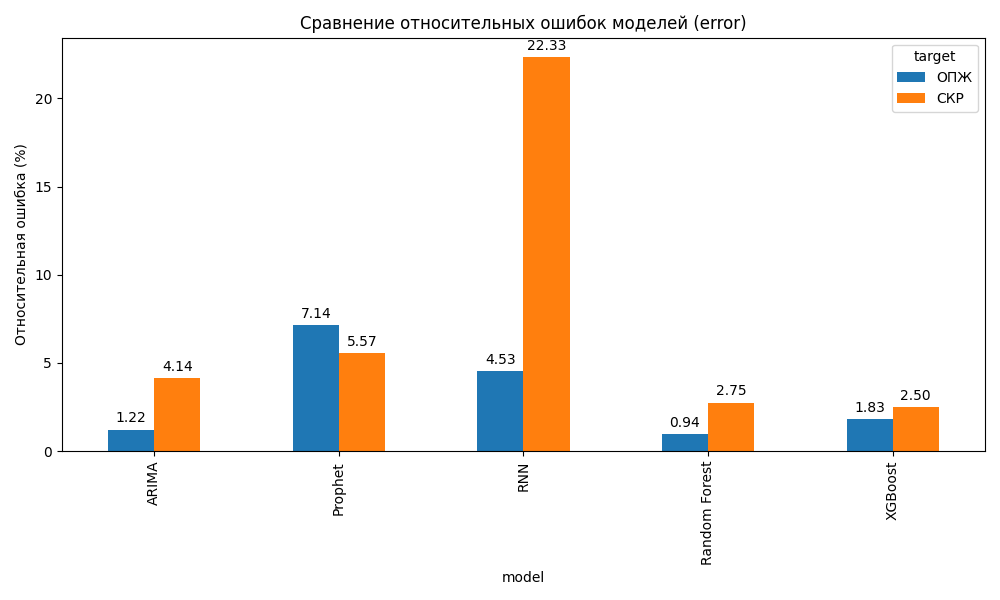
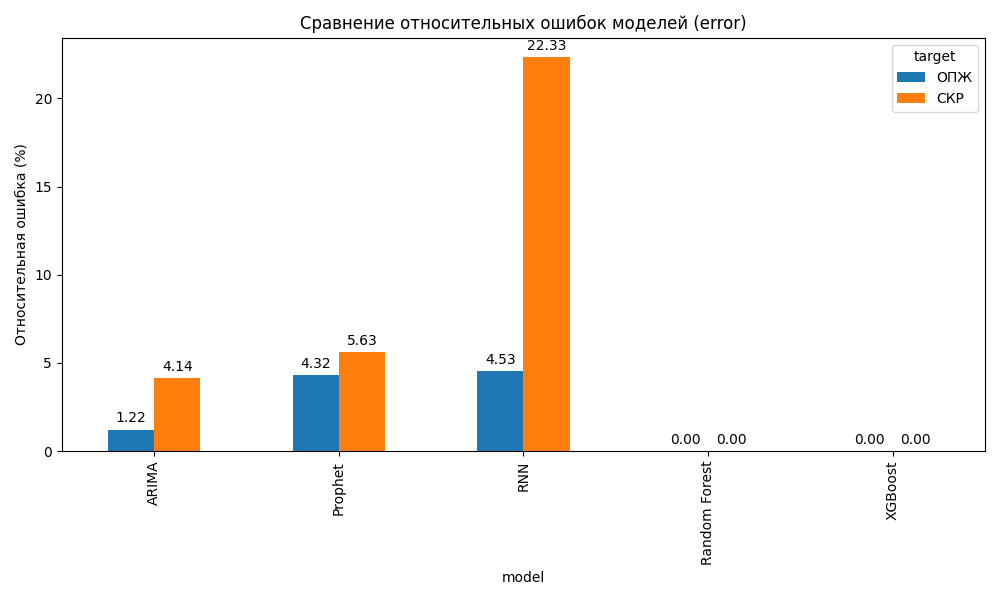
Auto update metrics [ci skip]

Changed region(s): [[0.837, 0.63, 0.961, 0.75], [0.651, 0.63, 0.775, 0.75], [0.279, 0.51, 0.372, 0.63]]

diff --git a/notebooks/Readme.md b/notebooks/Readme.md
@@ -43,80 +43,96 @@ R²: -0.1932
 ```
 ====================================================================================================
 Отклонение таргета относительно прогноза:
-RMSE: 0.0804
-MAE: 0.0626
-R²: 0.9166
-Средний СКР: 1.4430
-Относительная ошибка: 5.57%
+RMSE: 0.0813
+MAE: 0.0636
+R²: 0.9158
+Средний СКР: 1.4432
+Относительная ошибка: 5.63%
 ====================================================================================================
 Отклонение таргета относительно СРЕДНЕГО:
-RMSE: 0.3299
-MAE: 0.2663
-R²: -0.4045
-Средний СКР: 1.4430
-Относительная ошибка: 22.86%
+RMSE: 0.3312
+MAE: 0.2672
+R²: -0.3989
+Средний СКР: 1.4432
+Относительная ошибка: 22.95%
 ====================================================================================================
-{"RMSE": 0.08039634474917264, "MAE": 0.06261784104002265, "R2": 0.9165793307910134, "relative_error": 5.57158582473221, "relative_average": 22.86120035365979}
+{"RMSE": 0.0812716464167795, "MAE": 0.06364434410253696, "R2": 0.915751869343397, "relative_error": 5.631526746965954, "relative_average": 22.947746449726324}
 ```
 
 ## Модель: Prophet — ОПЖ
 ```
 ====================================================================================================
 Отклонение таргета относительно прогноза:
-RMSE: 5.1509
-MAE: 4.8807
-R²: -3.2340
-Средний ОПЖ: 72.1126
-Относительная ошибка: 7.14%
+RMSE: 3.1182
+MAE: 1.9576
+R²: -0.5340
+Средний ОПЖ: 72.1096
+Относительная ошибка: 4.32%
 ====================================================================================================
 Отклонение таргета относительно СРЕДНЕГО:
-RMSE: 2.6350
-MAE: 1.9764
-R²: -0.1080
-Средний ОПЖ: 72.1126
-Относительная ошибка: 3.65%
+RMSE: 2.6477
+MAE: 1.9871
+R²: -0.1060
+Средний ОПЖ: 72.1096
+Относительная ошибка: 3.67%
 ====================================================================================================
-{"RMSE": 5.150934069517236, "MAE": 4.880674739778387, "R2": -3.233954240499953, "relative_error": 7.142899726473126, "relative_average": 3.6540144304911046}
+{"RMSE": 3.1182167851107914, "MAE": 1.9576427501147977, "R2": -0.5340055812229811, "relative_error": 4.32427156973766, "relative_average": 3.6717662954718566}
 ```
 
 ## Модель: Random Forest — СКР
 ```
-====================================================================================================
-Отклонение таргета относительно прогноза:
-RMSE: 0.0395
-MAE: 0.0300
-R²: 0.9794
-Средний СКР: 1.4365
-Относительная ошибка: 2.75%
-====================================================================================================
-Отклонение таргета относительно СРЕДНЕГО:
-RMSE: 0.3311
-MAE: 0.2689
-R²: -0.4436
-Средний СКР: 1.4365
-Относительная ошибка: 23.05%
-====================================================================================================
-{"RMSE": 0.03950175426298135, "MAE": 0.030049199048753493, "R2": 0.9794495132388341, "relative_error": 2.749917372934819, "relative_average": 23.04800988295015}
+Traceback (most recent call last):
+  File "/var/lib/jenkins/workspace/Check accuracy/venv/lib/python3.12/site-packages/pandas/core/indexes/base.py", line 3812, in get_loc
+    return self._engine.get_loc(casted_key)
+           ^^^^^^^^^^^^^^^^^^^^^^^^^^^^^^^^
+  File "pandas/_libs/index.pyx", line 167, in pandas._libs.index.IndexEngine.get_loc
+  File "pandas/_libs/index.pyx", line 196, in pandas._libs.index.IndexEngine.get_loc
+  File "pandas/_libs/hashtable_class_helper.pxi", line 7088, in pandas._libs.hashtable.PyObjectHashTable.get_item
+  File "pandas/_libs/hashtable_class_helper.pxi", line 7096, in pandas._libs.hashtable.PyObjectHashTable.get_item
+KeyError: 'СКР'
+
+The above exception was the direct cause of the following exception:
+
+Traceback (most recent call last):
+  File "/var/lib/jenkins/workspace/Check accuracy/check_metrics.py", line 147, in <module>
+    main()
+  File "/var/lib/jenkins/workspace/Check accuracy/check_metrics.py", line 93, in main
+    mask = ~np.isnan(df[args.target]) & ~np.isnan(df['predictions'])
+                     ~~^^^^^^^^^^^^^
+  File "/var/lib/jenkins/workspace/Check accuracy/venv/lib/python3.12/site-packages/pandas/core/frame.py", line 4113, in __getitem__
+    indexer = self.columns.get_loc(key)
+              ^^^^^^^^^^^^^^^^^^^^^^^^^
+  File "/var/lib/jenkins/workspace/Check accuracy/venv/lib/python3.12/site-packages/pandas/core/indexes/base.py", line 3819, in get_loc
+    raise KeyError(key) from err
+KeyError: 'СКР'
 ```
 
 ## Модель: Random Forest — ОПЖ
 ```
-====================================================================================================
-Отклонение таргета относительно прогноза:
-RMSE: 0.6832
-MAE: 0.5865
-R²: 0.9311
-Средний ОПЖ: 72.4341
-Относительная ошибка: 0.94%
-====================================================================================================
-Отклонение таргета относительно СРЕДНЕГО:
-RMSE: 2.8435
-MAE: 2.1326
-R²: -0.1932
-Средний ОПЖ: 72.4341
-Относительная ошибка: 3.93%
-====================================================================================================
-{"RMSE": 0.6831684827920694, "MAE": 0.5864823301127434, "R2": 0.9311240064337302, "relative_error": 0.9431584244883937, "relative_average": 3.9255724713872944}
+Traceback (most recent call last):
+  File "/var/lib/jenkins/workspace/Check accuracy/venv/lib/python3.12/site-packages/pandas/core/indexes/base.py", line 3812, in get_loc
+    return self._engine.get_loc(casted_key)
+           ^^^^^^^^^^^^^^^^^^^^^^^^^^^^^^^^
+  File "pandas/_libs/index.pyx", line 167, in pandas._libs.index.IndexEngine.get_loc
+  File "pandas/_libs/index.pyx", line 196, in pandas._libs.index.IndexEngine.get_loc
+  File "pandas/_libs/hashtable_class_helper.pxi", line 7088, in pandas._libs.hashtable.PyObjectHashTable.get_item
+  File "pandas/_libs/hashtable_class_helper.pxi", line 7096, in pandas._libs.hashtable.PyObjectHashTable.get_item
+KeyError: 'ОПЖ'
+
+The above exception was the direct cause of the following exception:
+
+Traceback (most recent call last):
+  File "/var/lib/jenkins/workspace/Check accuracy/check_metrics.py", line 147, in <module>
+    main()
+  File "/var/lib/jenkins/workspace/Check accuracy/check_metrics.py", line 93, in main
+    mask = ~np.isnan(df[args.target]) & ~np.isnan(df['predictions'])
+                     ~~^^^^^^^^^^^^^
+  File "/var/lib/jenkins/workspace/Check accuracy/venv/lib/python3.12/site-packages/pandas/core/frame.py", line 4113, in __getitem__
+    indexer = self.columns.get_loc(key)
+              ^^^^^^^^^^^^^^^^^^^^^^^^^
+  File "/var/lib/jenkins/workspace/Check accuracy/venv/lib/python3.12/site-packages/pandas/core/indexes/base.py", line 3819, in get_loc
+    raise KeyError(key) from err
+KeyError: 'ОПЖ'
 ```
 
 ## Модель: RNN — СКР
@@ -161,42 +177,58 @@ R²: -0.1080
 
 ## Модель: XGBoost — СКР
 ```
-====================================================================================================
-Отклонение таргета относительно прогноза:
-RMSE: 0.0359
-MAE: 0.0263
-R²: 0.9830
-Средний СКР: 1.4365
-Относительная ошибка: 2.50%
-====================================================================================================
-Отклонение таргета относительно СРЕДНЕГО:
-RMSE: 0.3311
-MAE: 0.2689
-R²: -0.4436
-Средний СКР: 1.4365
-Относительная ошибка: 23.05%
-====================================================================================================
-{"RMSE": 0.03591959576147001, "MAE": 0.02633676452636716, "R2": 0.9830076976073184, "relative_error": 2.5005451594798935, "relative_average": 23.04800988295015}
+Traceback (most recent call last):
+  File "/var/lib/jenkins/workspace/Check accuracy/venv/lib/python3.12/site-packages/pandas/core/indexes/base.py", line 3812, in get_loc
+    return self._engine.get_loc(casted_key)
+           ^^^^^^^^^^^^^^^^^^^^^^^^^^^^^^^^
+  File "pandas/_libs/index.pyx", line 167, in pandas._libs.index.IndexEngine.get_loc
+  File "pandas/_libs/index.pyx", line 196, in pandas._libs.index.IndexEngine.get_loc
+  File "pandas/_libs/hashtable_class_helper.pxi", line 7088, in pandas._libs.hashtable.PyObjectHashTable.get_item
+  File "pandas/_libs/hashtable_class_helper.pxi", line 7096, in pandas._libs.hashtable.PyObjectHashTable.get_item
+KeyError: 'СКР'
+
+The above exception was the direct cause of the following exception:
+
+Traceback (most recent call last):
+  File "/var/lib/jenkins/workspace/Check accuracy/check_metrics.py", line 147, in <module>
+    main()
+  File "/var/lib/jenkins/workspace/Check accuracy/check_metrics.py", line 93, in main
+    mask = ~np.isnan(df[args.target]) & ~np.isnan(df['predictions'])
+                     ~~^^^^^^^^^^^^^
+  File "/var/lib/jenkins/workspace/Check accuracy/venv/lib/python3.12/site-packages/pandas/core/frame.py", line 4113, in __getitem__
+    indexer = self.columns.get_loc(key)
+              ^^^^^^^^^^^^^^^^^^^^^^^^^
+  File "/var/lib/jenkins/workspace/Check accuracy/venv/lib/python3.12/site-packages/pandas/core/indexes/base.py", line 3819, in get_loc
+    raise KeyError(key) from err
+KeyError: 'СКР'
 ```
 
 ## Модель: XGBoost — ОПЖ
 ```
-====================================================================================================
-Отклонение таргета относительно прогноза:
-RMSE: 1.3268
-MAE: 1.2752
-R²: 0.7402
-Средний ОПЖ: 72.4341
-Относительная ошибка: 1.83%
-====================================================================================================
-Отклонение таргета относительно СРЕДНЕГО:
-RMSE: 2.8435
-MAE: 2.1326
-R²: -0.1932
-Средний ОПЖ: 72.4341
-Относительная ошибка: 3.93%
-====================================================================================================
-{"RMSE": 1.3267630703959918, "MAE": 1.2752034624885114, "R2": 0.740224026325228, "relative_error": 1.831682518534641, "relative_average": 3.9255724713872944}
+Traceback (most recent call last):
+  File "/var/lib/jenkins/workspace/Check accuracy/venv/lib/python3.12/site-packages/pandas/core/indexes/base.py", line 3812, in get_loc
+    return self._engine.get_loc(casted_key)
+           ^^^^^^^^^^^^^^^^^^^^^^^^^^^^^^^^
+  File "pandas/_libs/index.pyx", line 167, in pandas._libs.index.IndexEngine.get_loc
+  File "pandas/_libs/index.pyx", line 196, in pandas._libs.index.IndexEngine.get_loc
+  File "pandas/_libs/hashtable_class_helper.pxi", line 7088, in pandas._libs.hashtable.PyObjectHashTable.get_item
+  File "pandas/_libs/hashtable_class_helper.pxi", line 7096, in pandas._libs.hashtable.PyObjectHashTable.get_item
+KeyError: 'ОПЖ'
+
+The above exception was the direct cause of the following exception:
+
+Traceback (most recent call last):
+  File "/var/lib/jenkins/workspace/Check accuracy/check_metrics.py", line 147, in <module>
+    main()
+  File "/var/lib/jenkins/workspace/Check accuracy/check_metrics.py", line 93, in main
+    mask = ~np.isnan(df[args.target]) & ~np.isnan(df['predictions'])
+                     ~~^^^^^^^^^^^^^
+  File "/var/lib/jenkins/workspace/Check accuracy/venv/lib/python3.12/site-packages/pandas/core/frame.py", line 4113, in __getitem__
+    indexer = self.columns.get_loc(key)
+              ^^^^^^^^^^^^^^^^^^^^^^^^^
+  File "/var/lib/jenkins/workspace/Check accuracy/venv/lib/python3.12/site-packages/pandas/core/indexes/base.py", line 3819, in get_loc
+    raise KeyError(key) from err
+KeyError: 'ОПЖ'
 ```
 
 ## Диаграмма относительных ошибок
